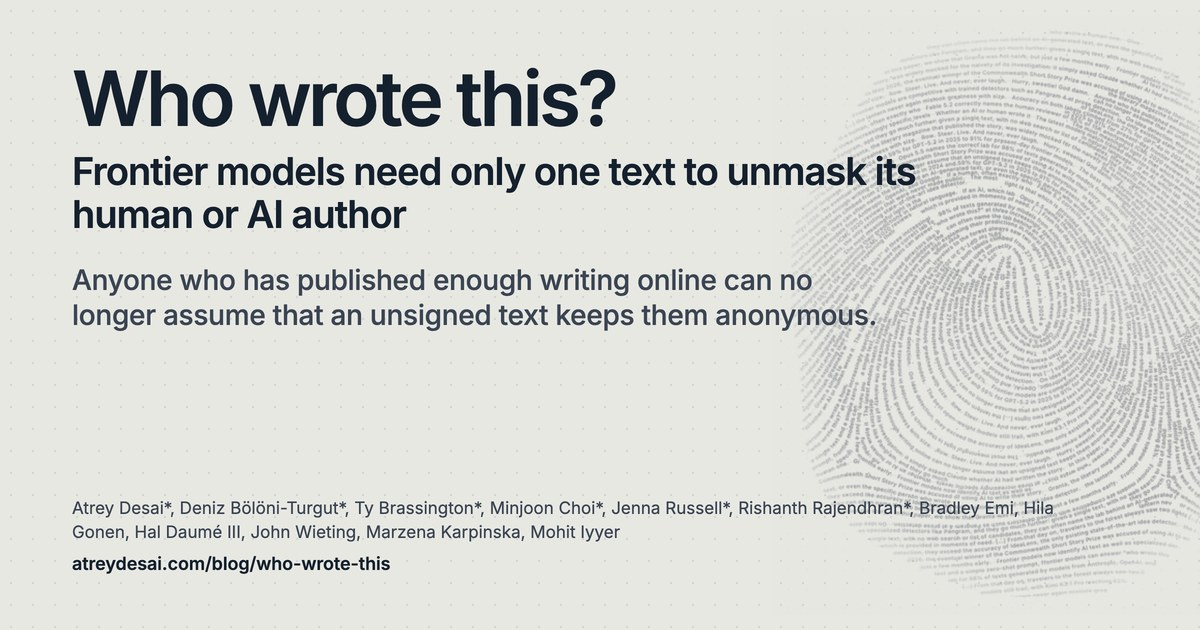
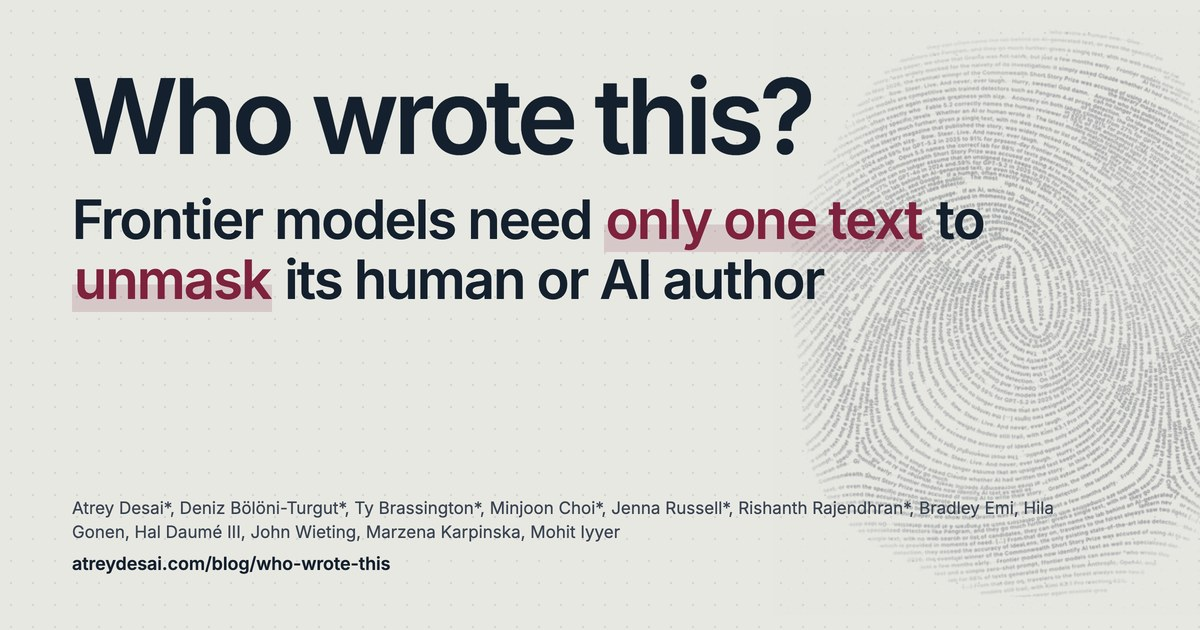
Who wrote this: link card with a larger title and subhead, 'only one text' and 'unmask' highlighted, no closing line

Changed region(s): [[0.0617, 0.0905, 0.8325, 0.5429]]

diff --git a/src/content/posts/who-wrote-this.md b/src/content/posts/who-wrote-this.md
@@ -7,7 +7,7 @@ excerpt: "Frontier models need only one text to unmask its human or AI author"
 seoTitle: "Who wrote this? Frontier models need only one text to unmask its human or AI author"
 seoDescription: "Given a single text and a simple zero-shot prompt, frontier models can answer who wrote this at three increasingly specific levels: whether an AI or human wrote it, if an AI, which lab, and if a human, often exactly who."
 image: "/images/og/who-wrote-this.jpg"
-imageAlt: "Who wrote this? Frontier models need only one text to unmask its human or AI author. Anyone who has published enough writing online can no longer assume that an unsigned text keeps them anonymous. By Atrey Desai and coauthors, atreydesai.com/blog/who-wrote-this. Beside it, a faint fingerprint whose ridges are lines of text."
+imageAlt: "Who wrote this? Frontier models need only one text to unmask its human or AI author. By Atrey Desai and coauthors, atreydesai.com/blog/who-wrote-this. Beside it, a faint fingerprint whose ridges are lines of text."
 published: true
 unlisted: true
 ---
